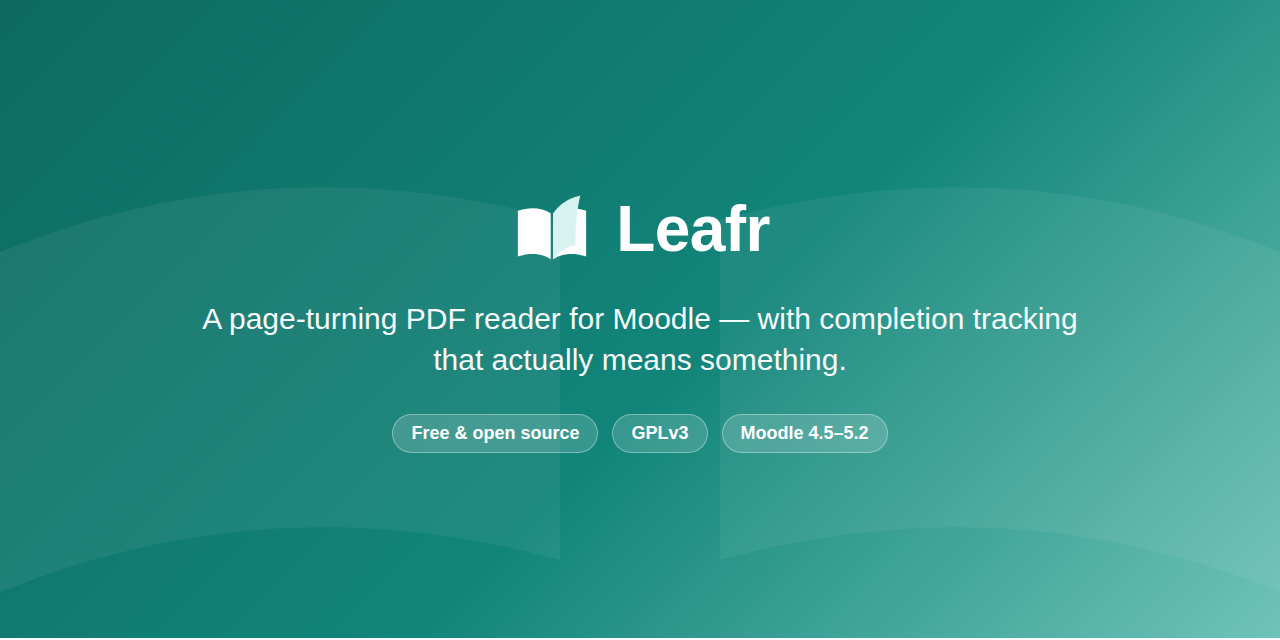
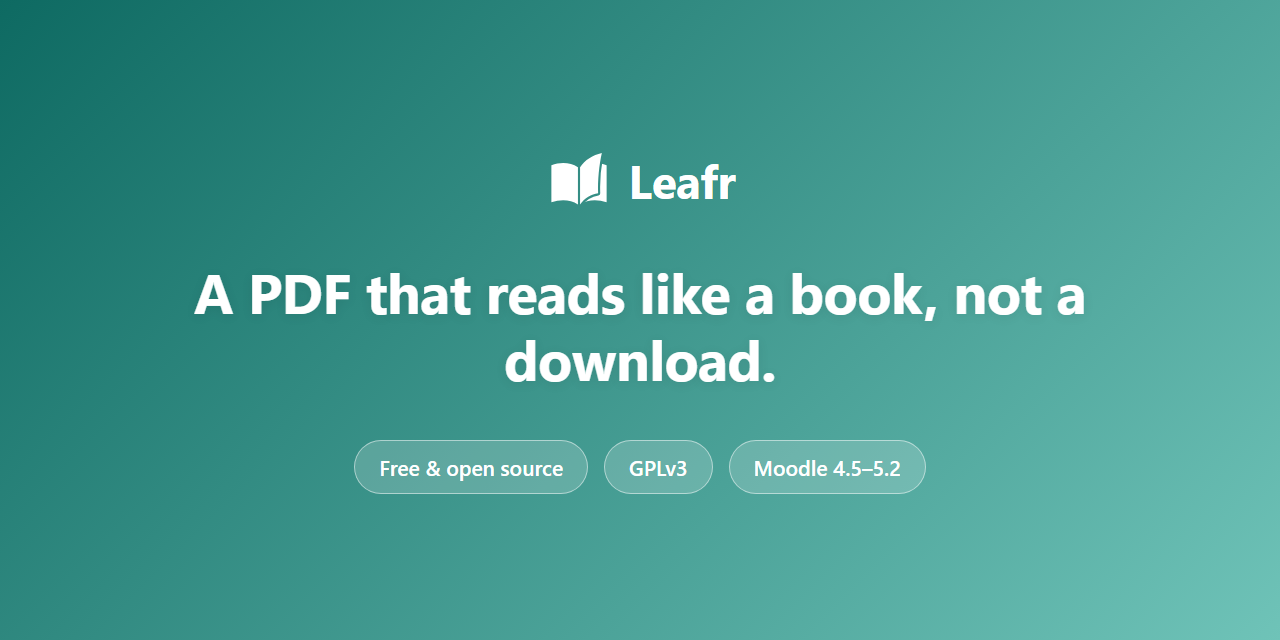
Rewrite hero, feature cards and FAQ around the learner's book experience
Puts the page-turning book experience (chapters, table of contents,
bookmarks with exportable notes, search) first, moves the read-confirmation
and compliance angle to second place, and replaces the paid-tier and
cloud-version FAQ entries with questions about features Leafr actually has.
No competitor comparisons anywhere on the page.

diff --git a/de/index.html b/de/index.html
@@ -3,12 +3,12 @@
 <head>
 <meta charset="UTF-8">
 <meta name="viewport" content="width=device-width, initial-scale=1">
-<title>Leafr — ein Blätter-PDF-Reader für Moodle</title>
-<meta name="description" content="Leafr ist eine kostenlose, quelloffene Moodle-Aktivität, die ein PDF zu einem Buch macht, das Lernende durchblättern können — mit echter Lesestand-Erfassung und ohne externe Dienste.">
+<title>Leafr — ein PDF, das sich liest wie ein Buch</title>
+<meta name="description" content="Leafr ist eine kostenlose, quelloffene Moodle-Aktivität, die ein PDF zu einem Buch macht, das Lernende durchblättern können — mit Kapiteln, Lesezeichen und Suche, plus einer optionalen Lesebestätigung für Material, das wirklich gelesen werden muss.">
 <link rel="icon" type="image/svg+xml" href="../assets/icon.svg">
 <meta property="og:type" content="website">
-<meta property="og:title" content="Leafr — ein Blätter-PDF-Reader für Moodle">
-<meta property="og:description" content="Kostenlose, quelloffene Moodle-Aktivität: ein PDF wird zu einem Buch, das Lernende durchblättern können — mit echter Lesestand-Erfassung und ohne externe Dienste.">
+<meta property="og:title" content="Leafr — ein PDF, das sich liest wie ein Buch">
+<meta property="og:description" content="Kostenlose, quelloffene Moodle-Aktivität: ein PDF wird zu einem Buch, das Lernende durchblättern können — mit Kapiteln, Lesezeichen und Suche, plus einer optionalen Lesebestätigung für Material, das wirklich gelesen werden muss.">
 <meta property="og:url" content="https://peterpleimfeldner-design.github.io/moodle-mod_leafr/de/">
 <meta property="og:image" content="https://peterpleimfeldner-design.github.io/moodle-mod_leafr/assets/social-preview.png">
 <meta name="twitter:card" content="summary_large_image">
@@ -117,8 +117,8 @@
 <main id="top">
 
   <section class="hero wrap">
-    <h1>Ein Blätter-PDF-Reader für Moodle — mit einer Lesestand-Erfassung, die wirklich etwas aussagt.</h1>
-    <p class="lead">Leafr macht aus einem PDF ein Buch, das Lernende direkt im Kurs durchblättern können. Kein externer Dienst, kein zusätzliches Login, keine Daten verlassen deine Moodle-Instanz.</p>
+    <h1>Ein PDF, das sich liest wie ein Buch — kein Download.</h1>
+    <p class="lead">Leafr macht aus jedem PDF in deinem Moodle-Kurs ein Buch zum Durchblättern — mit Kapiteln, Inhaltsverzeichnis, Lesezeichen und Notizen zum Exportieren, und einer echten Stelle, an der Lernende weiterlesen können, wo sie aufgehört haben.</p>
     <div class="cta-row">
       <a class="btn btn-primary" href="https://github.com/peterpleimfeldner-design/moodle-mod_leafr/releases/latest">Neuestes Release herunterladen</a>
       <a class="btn btn-secondary" href="https://github.com/peterpleimfeldner-design/moodle-mod_leafr">Auf GitHub ansehen</a>
@@ -131,20 +131,28 @@
     <p class="section-lead">Moodle erlaubt es schon, ein PDF als einfache Datei anzuhängen. Leafr ist für die Fälle gedacht, in denen das nicht reicht.</p>
     <div class="grid-cards">
       <div class="card">
-        <h3>Wissen, wer es wirklich gelesen hat</h3>
-        <p>Abschluss nach letzter Seite, nach Prozentsatz der Seiten oder nach bestimmten Pflichtseiten und Kapiteln — nicht nur, wer die Datei heruntergeladen hat.</p>
+        <h3>Ein Buch, kein Scrollen</h3>
+        <p>Echtes Umblättern, Kapitel, ein Inhaltsverzeichnis und Lesezeichen mit eigenen Notizen — ein langes Dokument lesen wie ein Buch. Lesezeichen und Notizen lassen sich als PDF exportieren.</p>
       </div>
       <div class="card">
-        <h3>Lange Dokumente navigierbar machen</h3>
-        <p>Inhaltsverzeichnis, Seiten-Miniaturansichten, Volltextsuche und Lesezeichen mit Notizen statt endlosem Scrollen.</p>
+        <h3>Lesenachweis statt Häkchen</h3>
+        <p>Bestimmte Seiten oder Kapitel als Pflicht markieren und eine aktive Lesebestätigung mit Zeitstempel einfordern — für Material, das wirklich gelesen werden muss, etwa Sicherheitsunterweisungen und Richtlinien.</p>
       </div>
       <div class="card">
-        <h3>Eine aktive Bestätigung einfordern</h3>
-        <p>Eine optionale Lesebestätigung für Richtlinien, Sicherheitshandbücher oder Vereinbarungen — ein bewusster Klick, kein abgeleiteter Zeitstempel.</p>
+        <h3>Alles inklusive, nichts zurückgehalten</h3>
+        <p>Miniaturansichten, Volltextsuche, Lesezeichen mit Notiz, Überblicksbericht für Lehrende, Lesebestätigung — alles Teil des einen kostenlosen Plugins. Keine kostenpflichtige Stufe, keine gesperrten Funktionen.</p>
       </div>
       <div class="card">
-        <h3>Fortschritt sehen, nicht überwachen</h3>
-        <p>Ein Überblick für Lehrende zu Abschluss und gelesenen Pflichtseiten — ohne Lesezeiten oder ein Protokoll jeder einzelnen Seitenansicht.</p>
+        <h3>Barrierefrei von Anfang an</h3>
+        <p>Eine einfache, scrollbare Ansicht, die vollständig für Screenreader zugänglich ist, steht gleichwertig neben der Buchansicht — kein nachträglicher Zusatz.</p>
+      </div>
+      <div class="card">
+        <h3>Datensparsamkeit von Anfang an</h3>
+        <p>Kein externer Dienst, kein Analyse-Tool, volle Unterstützung der Moodle-Privacy-API — und bewusst keine Erfassung von Lesezeiten oder Verweildauer je Seite.</p>
+      </div>
+      <div class="card">
+        <h3>Für den Unterricht gemacht, nicht nur für die IT</h3>
+        <p>Ein Überblicksbericht je Teilnehmer:in, flexible Abschlussregeln, manuelle Kapitel für PDFs ohne eigenes Inhaltsverzeichnis — und die Oberfläche auf Deutsch, Englisch und Spanisch.</p>
       </div>
     </div>
     <p class="who-box">Wenn nichts davon zutrifft und eine einfache Datei oder die Aktivität „Textseite/Datei“ für dein PDF ausreicht, brauchst du Leafr nicht — auch das ist ein völlig valides Ergebnis.</p>
@@ -199,27 +207,31 @@
   <section id="faq" class="alt">
     <div class="wrap">
       <h2>Häufige Fragen</h2>
-      <details class="faq">
-        <summary>Warum kein Word- oder PowerPoint-Support?</summary>
-        <p>Leafr stellt PDFs mit PDF.js dar — das ermöglicht seitengenaue Navigation, Textsuche und eine stabile Seitenzahl als Grundlage für die Abschlusserfassung. Word- und PowerPoint-Dateien haben kein festes Seitenlayout über verschiedene Geräte hinweg, es gibt also keine verlässliche „Seite“ zum Erfassen. Exportiere dein Material zuerst als PDF — das kann jede gängige Office-Suite.</p>
+      <details class=”faq”>
+        <summary>Warum eine aktive Lesebestätigung statt nur Seitenaufrufe zu zählen?</summary>
+        <p>Bei verpflichtendem Material wie Sicherheitsunterweisungen oder Richtlinien reicht „die Seite war offen” oft nicht als verlässliches Signal. Eine aktive Bestätigung ist ein bewusster Klick, kein abgeleiteter Zeitstempel.</p>
       </details>
-      <details class="faq">
-        <summary>Warum gibt es keine kostenpflichtige „Pro“-Version?</summary>
-        <p>Gibt es nicht, und ist auch nicht geplant. Leafr ist unter der GPLv3 lizenziert; alles im Repository ist das vollständige Plugin, ohne Lizenzschlüssel, ohne gesperrte Funktionen und ohne gehostete Komponente.</p>
+      <details class=”faq”>
+        <summary>Was zeigt der Überblicksbericht für Lehrende?</summary>
+        <p>Abschlussstatus, gelesene Pflichtseiten und das Datum der Lesebestätigung je Teilnehmer:in — mit Gruppenfilter und CSV-Export.</p>
       </details>
-      <details class="faq">
-        <summary>Welche Daten speichert Leafr, und verlässt etwas meine Moodle-Instanz?</summary>
-        <p>Nur das, was oben unter „Bewusst datensparsam gebaut“ steht, und das bleibt in deiner Moodle-Installation und -Datenbank. Leafr ruft keinen externen Dienst, kein Analyse-Tool und keine API auf.</p>
+      <details class=”faq”>
+        <summary>Kann ich frei festlegen, welche Seiten oder Kapitel als „gelesen” zählen?</summary>
+        <p>Ja, über die Abschlussregeln (letzte Seite, Prozentsatz oder bestimmte Seiten/Kapitel) und manuelle Kapitel für PDFs ohne eigenes Inhaltsverzeichnis.</p>
       </details>
-      <details class="faq">
-        <summary>Sehen Lehrende, wie lange jemand gelesen hat oder bei welcher Seite länger verweilt wurde?</summary>
-        <p>Nein, bewusst nicht. Der Überblicksbericht zeigt nur, ob die Aktivität abgeschlossen ist, welche Pflichtseiten gelesen wurden und das Datum der Lesebestätigung.</p>
+      <details class=”faq”>
+        <summary>Verlassen Daten meine Moodle-Instanz?</summary>
+        <p>Nein. Leafr ruft keinen externen Dienst, kein Analyse-Tool und keine API auf — alles läuft auf deinem eigenen Moodle-Server, unter dessen bestehenden Hosting- und Backup-Regeln.</p>
       </details>
-      <details class="faq">
-        <summary>Gibt es eine Cloud- oder gehostete Version von Leafr?</summary>
-        <p>Nein. Leafr ist ein normales Moodle-Plugin, das vollständig auf deinem eigenen Moodle-Server läuft, unter dessen bestehenden Hosting- und Backup-Regeln.</p>
+      <details class=”faq”>
+        <summary>Kann ich Lesezeichen und Notizen exportieren?</summary>
+        <p>Ja, als druckbare Seite oder PDF — nützlich, um festzuhalten, was markiert wurde und warum.</p>
       </details>
-      <details class="faq">
+      <details class=”faq”>
+        <summary>Welche Sprachen unterstützt Leafr?</summary>
+        <p>Deutsch, Englisch und Spanisch für die Oberfläche.</p>
+      </details>
+      <details class=”faq”>
         <summary>Welche Moodle- und PHP-Versionen werden unterstützt?</summary>
         <p>Moodle 4.5 bis 5.2 (getestet mit 4.5, 5.0, 5.1 und 5.2), PHP 8.1 oder neuer.</p>
       </details>
@@ -236,7 +248,7 @@
       <a href="https://github.com/peterpleimfeldner-design/moodle-mod_leafr/issues">Problem melden</a>
       <a href="https://github.com/peterpleimfeldner-design/moodle-mod_leafr/blob/main/LICENSE">GPLv3-Lizenz</a>
     </div>
-    <p>Leafr ist freie und quelloffene Software, © 2026 Peter Pleimfeldner.</p>
+    <p>Leafr ist freie und quelloffene Software (GPLv3), ohne kostenpflichtige Stufe — © 2026 Peter Pleimfeldner.</p>
   </div>
 </footer>
 

diff --git a/index.html b/index.html
@@ -3,12 +3,12 @@
 <head>
 <meta charset="UTF-8">
 <meta name="viewport" content="width=device-width, initial-scale=1">
-<title>Leafr — a page-turning PDF reader for Moodle</title>
-<meta name="description" content="Leafr is a free, open-source Moodle activity that turns a PDF into a book students can leaf through, with real completion tracking and no external services.">
+<title>Leafr — a PDF that reads like a book, not a download</title>
+<meta name="description" content="Leafr is a free, open-source Moodle activity that turns a PDF into a book students can page through, with chapters, bookmarks and search — plus an optional read confirmation for material people actually have to read.">
 <link rel="icon" type="image/svg+xml" href="assets/icon.svg">
 <meta property="og:type" content="website">
-<meta property="og:title" content="Leafr — a page-turning PDF reader for Moodle">
-<meta property="og:description" content="Free, open-source Moodle activity: a PDF becomes a book students can leaf through, with real completion tracking and no external services.">
+<meta property="og:title" content="Leafr — a PDF that reads like a book, not a download">
+<meta property="og:description" content="Free, open-source Moodle activity: a PDF becomes a book students can page through, with chapters, bookmarks and search — plus an optional read confirmation for material people actually have to read.">
 <meta property="og:url" content="https://peterpleimfeldner-design.github.io/moodle-mod_leafr/">
 <meta property="og:image" content="https://peterpleimfeldner-design.github.io/moodle-mod_leafr/assets/social-preview.png">
 <meta name="twitter:card" content="summary_large_image">
@@ -137,8 +137,8 @@
 <main id="top">
 
   <section class="hero wrap">
-    <h1>A page-turning PDF reader for Moodle — with completion tracking that actually means something.</h1>
-    <p class="lead">Leafr turns a PDF into a book students can leaf through inside your course. No external service, no extra login, no data leaving your Moodle site.</p>
+    <h1>A PDF that reads like a book, not a download.</h1>
+    <p class="lead">Leafr turns any PDF in your Moodle course into a book students can page through — with chapters, a table of contents, bookmarks and notes they can export, and a real place to pick up where they left off.</p>
     <div class="cta-row">
       <a class="btn btn-primary" href="https://github.com/peterpleimfeldner-design/moodle-mod_leafr/releases/latest">Download latest release</a>
       <a class="btn btn-secondary" href="https://github.com/peterpleimfeldner-design/moodle-mod_leafr">View on GitHub</a>
@@ -151,20 +151,28 @@
     <p class="section-lead">Moodle already lets you attach a PDF as a plain file. Leafr is for the cases where that isn't enough.</p>
     <div class="grid-cards">
       <div class="card">
-        <h3>Know who actually read it</h3>
-        <p>Completion by last page, by a percentage of pages, or by specific required pages and chapters — not just who downloaded the file.</p>
+        <h3>A book, not a scroll</h3>
+        <p>Real page-turning, chapters, a table of contents and bookmarks with your own notes — read a long document the way you'd read a book. Bookmarks and notes can be exported as a PDF.</p>
       </div>
       <div class="card">
-        <h3>Navigate long documents</h3>
-        <p>A table of contents, page thumbnails, full-text search and bookmarks with notes, instead of one long scroll.</p>
+        <h3>Proof of reading, not just a tick-box</h3>
+        <p>Mark certain pages or chapters as required, and ask for an active read confirmation with a timestamp — for material people actually have to read, like safety briefings and policies.</p>
       </div>
       <div class="card">
-        <h3>Ask for an active confirmation</h3>
-        <p>An optional read-confirmation step for policies, safety handbooks or terms — a deliberate click, not an inferred timestamp.</p>
+        <h3>Everything included, nothing held back</h3>
+        <p>Thumbnails, full-text search, notated bookmarks, a teacher overview report, read confirmation — all part of the one free plugin. No paid tier, no feature gate.</p>
       </div>
       <div class="card">
-        <h3>See progress, not surveillance</h3>
-        <p>A teacher overview of completion and required pages read — without reading times or a log of every page view.</p>
+        <h3>Accessible from the ground up</h3>
+        <p>A simple, scrollable view that's fully accessible to screen readers sits alongside the book view as an equal alternative, not an afterthought.</p>
+      </div>
+      <div class="card">
+        <h3>Privacy by design, not an afterthought</h3>
+        <p>No external service, no analytics tool, full support for Moodle's Privacy API — and deliberately no tracking of reading times or how long someone lingered on a page.</p>
+      </div>
+      <div class="card">
+        <h3>Built for teaching, not just IT</h3>
+        <p>An overview report per participant, flexible completion rules, manual chapters for PDFs without an outline, and an interface available in German, English and Spanish.</p>
       </div>
     </div>
     <p class="who-box">If none of that applies and a plain file or a "Resource" activity is enough for your PDF, you don't need Leafr — and that's a fine outcome.</p>
@@ -255,24 +263,28 @@
   <section id="faq" class="wrap">
     <h2>FAQ</h2>
     <details class="faq">
-      <summary>Why no Word or PowerPoint support?</summary>
-      <p>Leafr renders PDF with PDF.js, which is what gives it page-accurate navigation, text search and a stable page count to base completion tracking on. Word and PowerPoint files don't have a fixed page layout across devices, so there is no reliable "page" to track. Export your material to PDF first — every common office suite can do this.</p>
+      <summary>Why an active read confirmation instead of just counting page views?</summary>
+      <p>For mandatory material like safety briefings or policies, "the page was open" often isn't a reliable enough signal that something was actually read. An active confirmation is a deliberate click, not an inferred timestamp.</p>
     </details>
     <details class="faq">
-      <summary>Why isn't there a paid "Pro" version?</summary>
-      <p>There isn't one, and none is planned. Leafr is licensed under the GPLv3; everything in the repository is the whole plugin, with no license key, no feature gate and no hosted component.</p>
+      <summary>What does the teacher overview report show?</summary>
+      <p>Completion status, which required pages have been read, and the read-confirmation date for each participant — with a group filter and CSV export.</p>
     </details>
     <details class="faq">
-      <summary>What data does Leafr store, and does anything leave my Moodle site?</summary>
-      <p>Only what's listed under "Built with data minimalism in mind" above, and it stays inside your Moodle installation and database. Leafr does not call out to any external service, analytics tool or API.</p>
+      <summary>Can I choose exactly which pages or chapters count as "read"?</summary>
+      <p>Yes, through the completion rules (last page, a percentage, or specific pages/chapters) and manual chapters for PDFs without their own outline.</p>
     </details>
     <details class="faq">
-      <summary>Can teachers see how long a student spent reading, or which pages they lingered on?</summary>
-      <p>No, deliberately not. The overview report shows only whether the activity is complete, which required pages have been read, and the read-confirmation date.</p>
+      <summary>Does any data leave my Moodle instance?</summary>
+      <p>No. Leafr doesn't call out to any external service, analytics tool or API — everything runs on your own Moodle server, under whatever hosting and backup policy it already has.</p>
     </details>
     <details class="faq">
-      <summary>Is there a cloud or hosted version of Leafr?</summary>
-      <p>No. Leafr is a normal Moodle plugin that runs entirely on your own Moodle server, under whatever hosting and backup policy that server already has.</p>
+      <summary>Can I export bookmarks and notes?</summary>
+      <p>Yes, as a printable page or PDF — useful for keeping a record of what was marked and why.</p>
+    </details>
+    <details class="faq">
+      <summary>Which languages does Leafr support?</summary>
+      <p>German, English and Spanish for the interface.</p>
     </details>
     <details class="faq">
       <summary>Which Moodle and PHP versions are supported?</summary>
@@ -290,7 +302,7 @@
       <a href="https://github.com/peterpleimfeldner-design/moodle-mod_leafr/issues">Report an issue</a>
       <a href="https://github.com/peterpleimfeldner-design/moodle-mod_leafr/blob/main/LICENSE">GPLv3 license</a>
     </div>
-    <p>Leafr is free and open-source software, © 2026 Peter Pleimfeldner.</p>
+    <p>Leafr is free and open-source software (GPLv3), with no paid tier — © 2026 Peter Pleimfeldner.</p>
   </div>
 </footer>
 
